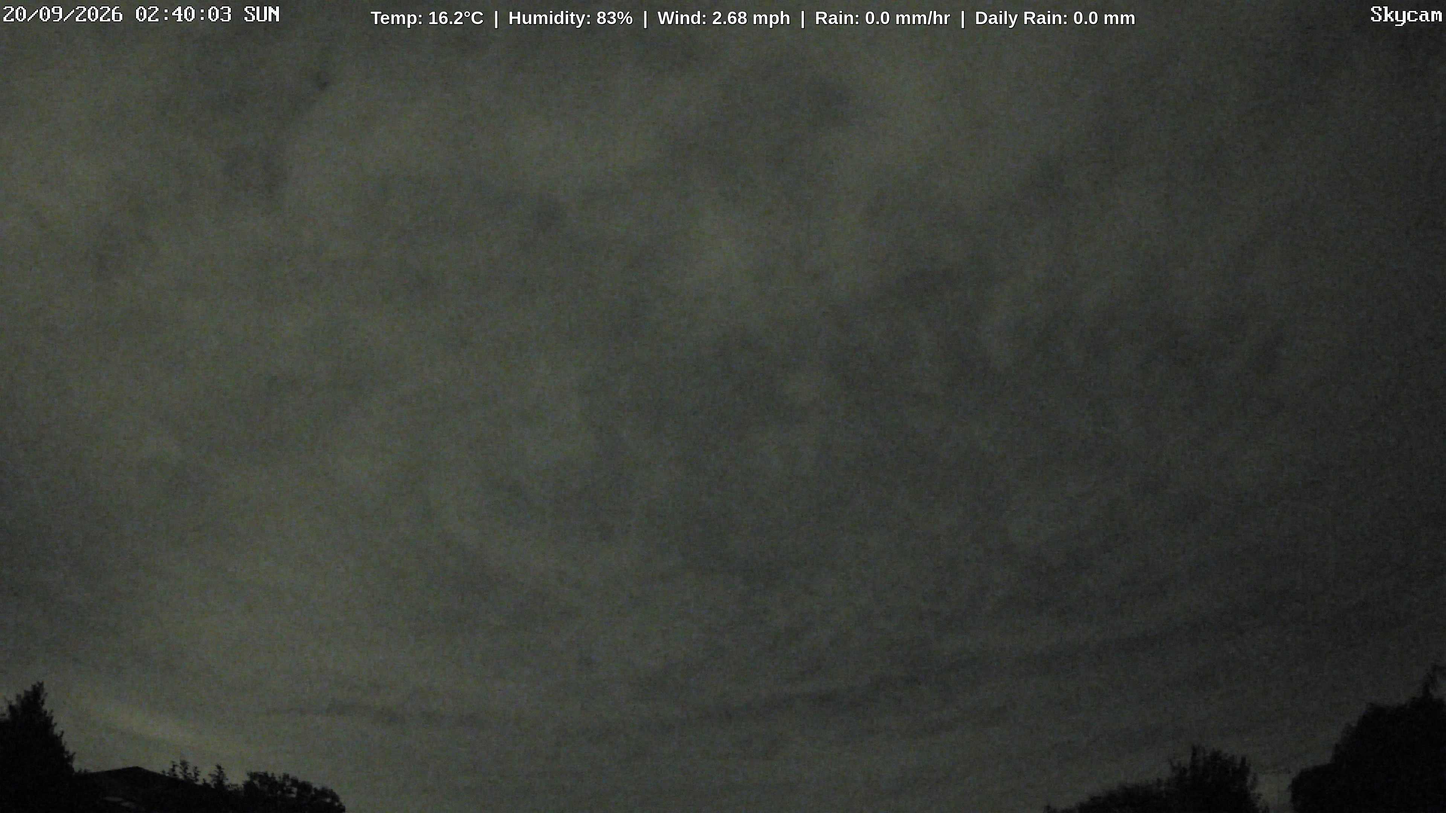
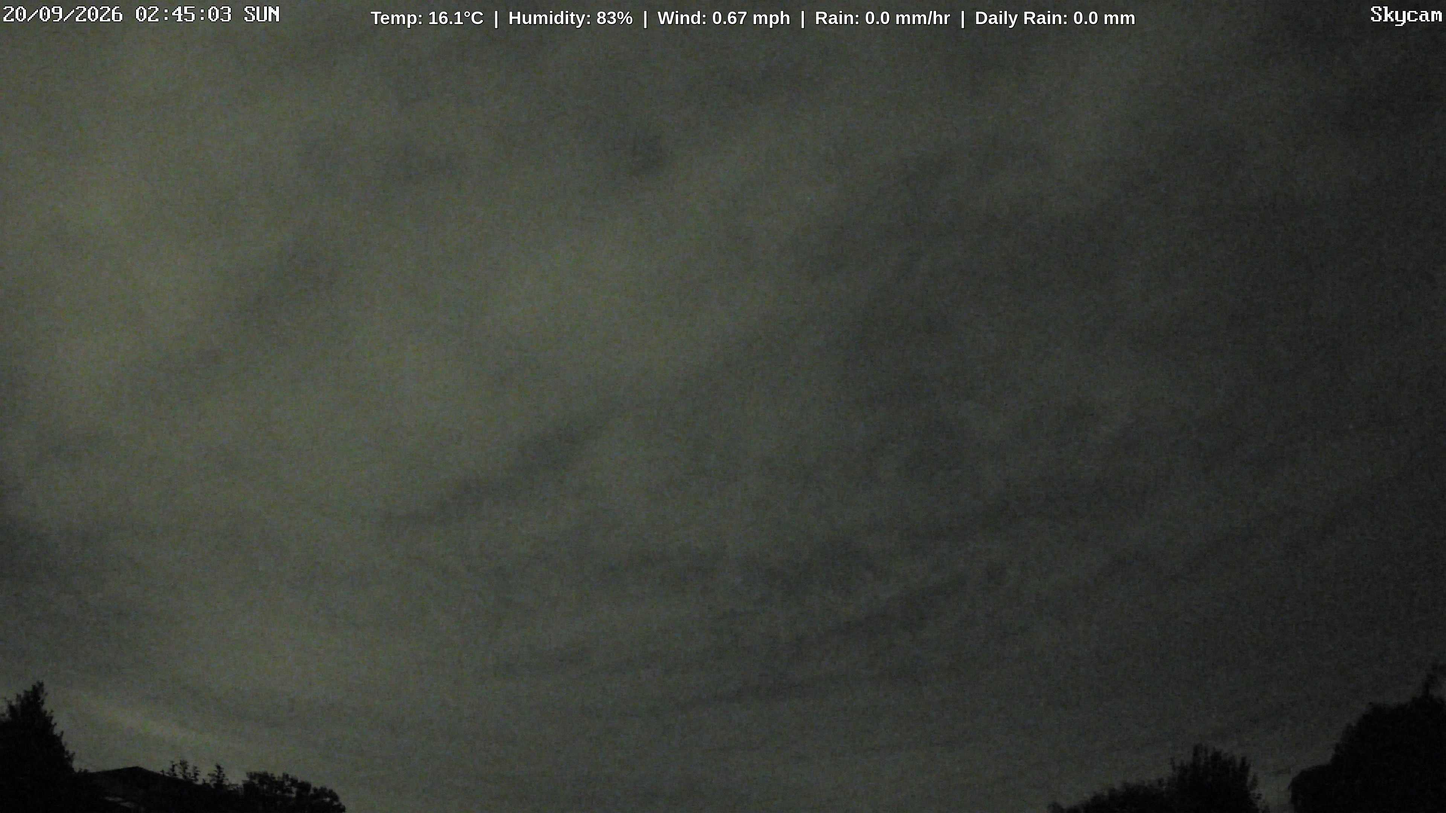
Update weather cam image with synchronized dual-layer weather metrics

diff --git a/index.html b/index.html
@@ -32,7 +32,7 @@
 </head>
 <body>
     <img id="weathercam" alt="Live Weather Snapshot">
-    <div class="banner">Temp: 16.2°C  |  Humidity: 83%  |  Wind: 2.68 mph  |  Rain: 0.0 mm/hr  |  Daily Rain: 0.0 mm</div>
+    <div class="banner">Temp: 16.1°C  |  Humidity: 83%  |  Wind: 0.67 mph  |  Rain: 0.0 mm/hr  |  Daily Rain: 0.0 mm</div>
 
     <script>
         // Shatter mobile cache engines by appending a live unique runtime timestamp 
